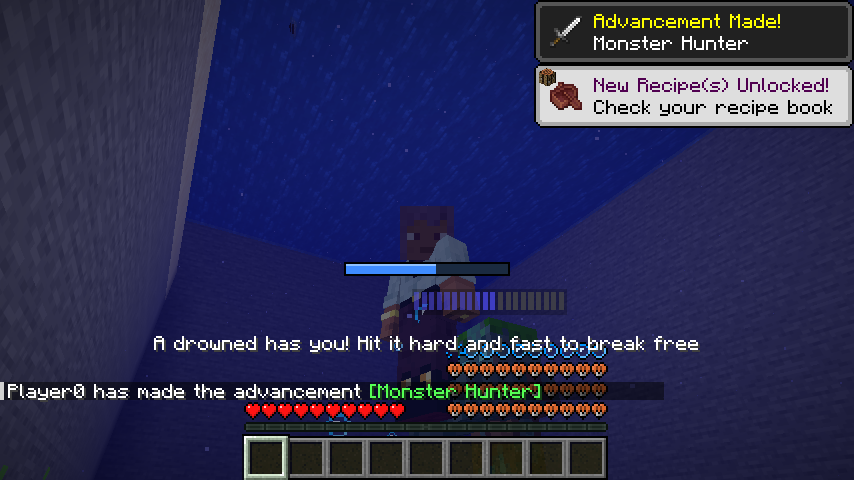
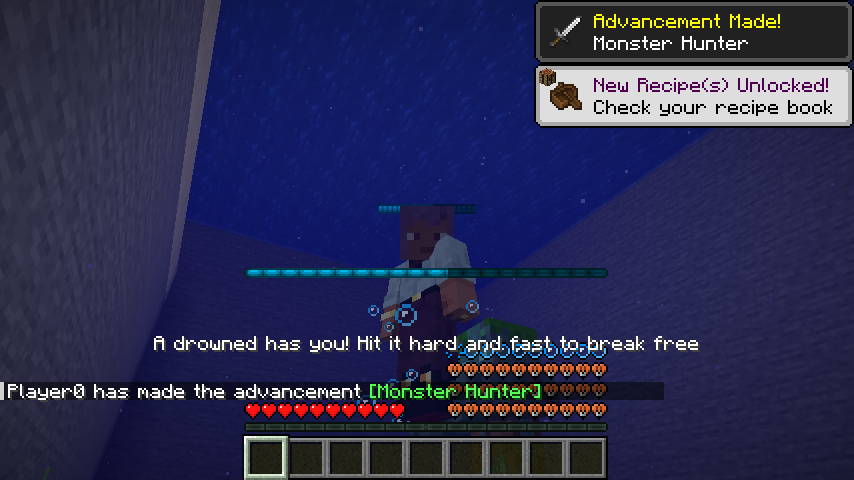
Reworked Mobs: meters drawn as vanilla notched bars (boss-bar blue/red sprites with 20 notches) on the HUD and as camera-facing bars over mobs, a held victim's bar over their head; fix the flaky lurk-spot test (pool side walls are valid shores) (C1)

diff --git a/mods/bubbas_reworked_mobs/src/client/java/io/github/bubba8587/bubbas_reworked_mobs/client/meter/MeterBars.java b/mods/bubbas_reworked_mobs/src/client/java/io/github/bubba8587/bubbas_reworked_mobs/client/meter/MeterBars.java
@@ -1,18 +1,23 @@
 // dte:C1,B19
 package io.github.bubba8587.bubbas_reworked_mobs.client.meter;
 
+import com.mojang.blaze3d.vertex.PoseStack;
+import com.mojang.blaze3d.vertex.VertexConsumer;
 import io.github.bubba8587.bubbas_reworked_mobs.BubbasReworkedMobs;
 import io.github.bubba8587.bubbas_reworked_mobs.meter.Meters;
 import it.unimi.dsi.fastutil.ints.Int2IntOpenHashMap;
-import net.minecraft.ChatFormatting;
 import net.minecraft.client.DeltaTracker;
 import net.minecraft.client.Minecraft;
 import net.minecraft.client.gui.GuiGraphicsExtractor;
-import net.minecraft.network.chat.Component;
-import net.minecraft.network.chat.MutableComponent;
+import net.minecraft.client.renderer.RenderPipelines;
+import net.minecraft.client.renderer.SubmitNodeCollector;
+import net.minecraft.client.renderer.entity.state.EntityRenderState;
+import net.minecraft.client.renderer.rendertype.RenderType;
+import net.minecraft.client.renderer.rendertype.RenderTypes;
+import net.minecraft.client.renderer.state.level.CameraRenderState;
+import net.minecraft.resources.Identifier;
 import net.minecraft.world.entity.Entity;
 import net.minecraft.world.entity.monster.zombie.Drowned;
-import org.jspecify.annotations.Nullable;
 
 import net.fabricmc.fabric.api.client.networking.v1.ClientPlayConnectionEvents;
 import net.fabricmc.fabric.api.client.networking.v1.ClientPlayNetworking;
@@ -20,21 +25,40 @@ import net.fabricmc.fabric.api.client.rendering.v1.hud.HudElementRegistry;
 import net.fabricmc.fabric.api.client.rendering.v1.hud.VanillaHudElements;
 
 /**
- * Draws the visible meters ({@link Meters}, game rule {@code show_meters}): a bar of 20 marks under the mob's name-tag
- * spot (blue grip on a drowned, red startle on a creeper, filled marks coloured, the rest dark grey), and on the
- * screen of a player a drowned holds, a blue bar under the crosshair (filled rectangles, vanilla-style: black edge,
- * dark well). The values come from the server; nothing is computed here.
+ * Draws the visible meters ({@link Meters}, game rule {@code show_meters}) in vanilla's own bar style: the boss bar's
+ * blue (drowned grip) and red (creeper startle) sprites with the 20-notch overlay, the same 182 x 5 notched bar as the
+ * experience bar, no new textures. On the screen of a player a drowned holds, the bar sits under the crosshair; in the
+ * world it floats over the mob as a small camera-facing bar, over the victim's head when a drowned holds someone. The
+ * values come from the server; nothing is computed here.
  */
 public final class MeterBars {
 	/** Entity id to (kind << 8 | value). */
 	private static final Int2IntOpenHashMap METERS = new Int2IntOpenHashMap();
-	private static final int MARKS = 20;
-	/** Bars above heads show this close (blocks). */
+	/** Bars over mobs show this close (blocks). */
 	public static final double SHOW_DISTANCE = 32.0;
-	private static final int HUD_WIDTH = 81;
-	private static final int HUD_HEIGHT = 5;
-	private static final int BLUE = 0xFF3F8CFF;
-	private static final int BLUE_DARK = 0xFF1A2A40;
+	private static final int WIDTH = 182;
+	private static final int HEIGHT = 5;
+	/** World bar size (blocks): about a block wide, a little thicker than the sprite's proportions so it reads. */
+	private static final float WORLD_WIDTH = 1.0F;
+	private static final float WORLD_HEIGHT = 0.1F;
+	/** Gap above the head (blocks). */
+	private static final float ABOVE_HEAD = 0.35F;
+	private static final int FULL_BRIGHT = 15728880;
+
+	private static final Identifier[] BACKGROUND = {Identifier.withDefaultNamespace("boss_bar/blue_background"), Identifier.withDefaultNamespace("boss_bar/red_background")};
+	private static final Identifier[] PROGRESS = {Identifier.withDefaultNamespace("boss_bar/blue_progress"), Identifier.withDefaultNamespace("boss_bar/red_progress")};
+	private static final Identifier NOTCHES_BACKGROUND = Identifier.withDefaultNamespace("boss_bar/notched_20_background");
+	private static final Identifier NOTCHES_PROGRESS = Identifier.withDefaultNamespace("boss_bar/notched_20_progress");
+
+	/** The same sprites as plain textures for the world bars (each sprite's file is a loadable texture). */
+	private static RenderType texture(Identifier sprite) {
+		return RenderTypes.text(sprite.withPath(path -> "textures/gui/sprites/" + path + ".png"));
+	}
+
+	private static final RenderType[] WORLD_BACKGROUND = {texture(BACKGROUND[0]), texture(BACKGROUND[1])};
+	private static final RenderType[] WORLD_PROGRESS = {texture(PROGRESS[0]), texture(PROGRESS[1])};
+	private static final RenderType WORLD_NOTCHES_BACKGROUND = texture(NOTCHES_BACKGROUND);
+	private static final RenderType WORLD_NOTCHES_PROGRESS = texture(NOTCHES_PROGRESS);
 
 	private MeterBars() {
 	}
@@ -57,39 +81,86 @@ public final class MeterBars {
 		return METERS.getOrDefault(entity.getId(), 0) & 0xFF;
 	}
 
-	/** The bar to draw above this entity, or null. */
-	public static @Nullable Component bar(Entity entity) {
-		int packed = METERS.getOrDefault(entity.getId(), 0);
-		int value = packed & 0xFF;
-		if (value == 0) {
-			return null;
-		}
-		ChatFormatting colour = (packed >> 8) == Meters.STARTLE ? ChatFormatting.RED : ChatFormatting.BLUE;
-		int filled = Math.max(1, Math.round(value / 100.0F * MARKS));
-		MutableComponent bar = Component.literal("|".repeat(filled)).withStyle(colour, ChatFormatting.BOLD);
-		if (filled < MARKS) {
-			bar.append(Component.literal("|".repeat(MARKS - filled)).withStyle(ChatFormatting.DARK_GRAY, ChatFormatting.BOLD));
-		}
-		return bar;
+	private static int kindIndex(int packed) {
+		return (packed >> 8) == Meters.STARTLE ? 1 : 0;
 	}
 
-	/** The held player's grip bar, under the crosshair. */
+	/** Render-state extract: which bar, and where (over the head, or over a held victim's head). */
+	public static void extract(Entity entity, EntityRenderState state, float partialTicks) {
+		MeterState meter = (MeterState) state;
+		int packed = METERS.getOrDefault(entity.getId(), 0);
+		if ((packed & 0xFF) == 0 || state.distanceToCameraSq > SHOW_DISTANCE * SHOW_DISTANCE) {
+			meter.brm$setMeter(0, 0.0F, 0.0F, 0.0F);
+			return;
+		}
+		float x = 0.0F;
+		float y = entity.getBbHeight() + ABOVE_HEAD;
+		float z = 0.0F;
+		for (Entity passenger : entity.getPassengers()) {
+			// Over the held victim's head, not across their body.
+			x = (float) (passenger.getX(partialTicks) - entity.getX(partialTicks));
+			z = (float) (passenger.getZ(partialTicks) - entity.getZ(partialTicks));
+			y = Math.max(y, (float) (passenger.getY(partialTicks) - entity.getY(partialTicks)) + passenger.getBbHeight() + ABOVE_HEAD);
+		}
+		meter.brm$setMeter(packed, x, y, z);
+	}
+
+	/** The world bar: camera-facing, background and notches, then the filled part. */
+	public static void submit(MeterState meter, PoseStack poseStack, SubmitNodeCollector collector, CameraRenderState camera) {
+		int packed = meter.brm$meter();
+		int kind = kindIndex(packed);
+		float fill = (packed & 0xFF) / 100.0F;
+		poseStack.pushPose();
+		poseStack.translate(meter.brm$barX(), meter.brm$barY(), meter.brm$barZ());
+		poseStack.rotate(camera.orientation);
+		// Name-tag space: x right, y down; one unit is one sprite pixel.
+		poseStack.scale(WORLD_WIDTH / WIDTH, -WORLD_HEIGHT / HEIGHT, WORLD_WIDTH / WIDTH);
+		float x0 = -WIDTH / 2.0F;
+		float y0 = -HEIGHT / 2.0F;
+		quad(collector, poseStack, WORLD_BACKGROUND[kind], x0, y0, WIDTH, 1.0F, 0.0F);
+		quad(collector, poseStack, WORLD_NOTCHES_BACKGROUND, x0, y0, WIDTH, 1.0F, 0.5F);
+		quad(collector, poseStack, WORLD_PROGRESS[kind], x0, y0, WIDTH * fill, fill, 1.0F);
+		quad(collector, poseStack, WORLD_NOTCHES_PROGRESS, x0, y0, WIDTH * fill, fill, 1.5F);
+		poseStack.popPose();
+	}
+
+	/** One layer, {@code width} pixels wide showing the left {@code u1} of the sprite, {@code z} units toward the camera (positive is toward it in this space). */
+	private static void quad(SubmitNodeCollector collector, PoseStack poseStack, RenderType type, float x0, float y0, float width, float u1, float z) {
+		if (width <= 0.0F) {
+			return;
+		}
+		collector.submitCustomGeometry(poseStack, type, (pose, buffer) -> {
+			vertex(buffer, pose, x0, y0 + HEIGHT, z, 0.0F, 1.0F);
+			vertex(buffer, pose, x0 + width, y0 + HEIGHT, z, u1, 1.0F);
+			vertex(buffer, pose, x0 + width, y0, z, u1, 0.0F);
+			vertex(buffer, pose, x0, y0, z, 0.0F, 0.0F);
+		});
+	}
+
+	private static void vertex(VertexConsumer buffer, PoseStack.Pose pose, float x, float y, float z, float u, float v) {
+		buffer.addVertex(pose, x, y, z).setColor(-1).setUv(u, v).setLight(FULL_BRIGHT);
+	}
+
+	/** The held player's grip bar, under the crosshair: a boss bar in blue, notched. */
 	private static void extractHud(GuiGraphicsExtractor graphics, DeltaTracker deltaTracker) {
 		Minecraft mc = Minecraft.getInstance();
 		if (mc.player == null || !(mc.player.getVehicle() instanceof Drowned drowned)) {
 			return;
 		}
-		int value = value(drowned);
+		int packed = METERS.getOrDefault(drowned.getId(), 0);
+		int value = packed & 0xFF;
 		if (value == 0) {
 			return;
 		}
-		int x0 = (graphics.guiWidth() - HUD_WIDTH) / 2;
-		int y0 = graphics.guiHeight() / 2 + 12;
-		graphics.fill(x0 - 1, y0 - 1, x0 + HUD_WIDTH + 1, y0 + HUD_HEIGHT + 1, 0xFF000000);
-		graphics.fill(x0, y0, x0 + HUD_WIDTH, y0 + HUD_HEIGHT, BLUE_DARK);
-		int filled = Math.round(value / 100.0F * HUD_WIDTH);
-		graphics.fill(x0, y0, x0 + filled, y0 + HUD_HEIGHT, BLUE);
-		// A lighter top line, like vanilla's bars.
-		graphics.fill(x0, y0, x0 + filled, y0 + 1, 0xFF8FC0FF);
+		int kind = kindIndex(packed);
+		int x = (graphics.guiWidth() - WIDTH) / 2;
+		int y = graphics.guiHeight() / 2 + 14;
+		int filled = Math.round(value / 100.0F * WIDTH);
+		graphics.blitSprite(RenderPipelines.GUI_TEXTURED, BACKGROUND[kind], WIDTH, HEIGHT, 0, 0, x, y, WIDTH, HEIGHT);
+		graphics.blitSprite(RenderPipelines.GUI_TEXTURED, NOTCHES_BACKGROUND, WIDTH, HEIGHT, 0, 0, x, y, WIDTH, HEIGHT);
+		if (filled > 0) {
+			graphics.blitSprite(RenderPipelines.GUI_TEXTURED, PROGRESS[kind], WIDTH, HEIGHT, 0, 0, x, y, filled, HEIGHT);
+			graphics.blitSprite(RenderPipelines.GUI_TEXTURED, NOTCHES_PROGRESS, WIDTH, HEIGHT, 0, 0, x, y, filled, HEIGHT);
+		}
 	}
 }

diff --git a/mods/bubbas_reworked_mobs/src/client/java/io/github/bubba8587/bubbas_reworked_mobs/client/mixin/MeterBarMixin.java b/mods/bubbas_reworked_mobs/src/client/java/io/github/bubba8587/bubbas_reworked_mobs/client/mixin/MeterBarMixin.java
@@ -1,29 +1,34 @@
 // dte:C1
 package io.github.bubba8587.bubbas_reworked_mobs.client.mixin;
 
+import com.mojang.blaze3d.vertex.PoseStack;
 import io.github.bubba8587.bubbas_reworked_mobs.client.meter.MeterBars;
+import io.github.bubba8587.bubbas_reworked_mobs.client.meter.MeterState;
+import net.minecraft.client.renderer.SubmitNodeCollector;
 import net.minecraft.client.renderer.entity.EntityRenderer;
 import net.minecraft.client.renderer.entity.state.EntityRenderState;
-import net.minecraft.network.chat.Component;
+import net.minecraft.client.renderer.state.level.CameraRenderState;
 import net.minecraft.world.entity.Entity;
-import net.minecraft.world.entity.EntityAttachment;
 import org.spongepowered.asm.mixin.Mixin;
 import org.spongepowered.asm.mixin.injection.At;
 import org.spongepowered.asm.mixin.injection.Inject;
 import org.spongepowered.asm.mixin.injection.callback.CallbackInfo;
 
-/** A mob with a visible meter (game rule show_meters) gets its bar in the below-name line, where vanilla draws scoreboard text. */
+/**
+ * A mob with a visible meter (game rule show_meters) gets a small boss-bar-style bar floating over it: over its head,
+ * or, for a drowned holding someone, over the victim's head (so it doesn't draw across their body).
+ */
 @Mixin(EntityRenderer.class)
 abstract class MeterBarMixin {
 	@Inject(method = "extractRenderState(Lnet/minecraft/world/entity/Entity;Lnet/minecraft/client/renderer/entity/state/EntityRenderState;F)V", at = @At("TAIL"))
 	private void brm$meterBar(Entity entity, EntityRenderState state, float partialTicks, CallbackInfo ci) {
-		Component bar = MeterBars.bar(entity);
-		if (bar == null || state.distanceToCameraSq > MeterBars.SHOW_DISTANCE * MeterBars.SHOW_DISTANCE) {
-			return;
-		}
-		state.scoreText = bar;
-		if (state.nameTagAttachment == null || state.nameTag == null) {
-			state.nameTagAttachment = entity.getAttachments().getNullable(EntityAttachment.NAME_TAG, 0, entity.getYRot(partialTicks));
+		MeterBars.extract(entity, state, partialTicks);
+	}
+
+	@Inject(method = "submit", at = @At("TAIL"))
+	private void brm$submitMeterBar(EntityRenderState state, PoseStack poseStack, SubmitNodeCollector submitNodeCollector, CameraRenderState camera, CallbackInfo ci) {
+		if (((MeterState) state).brm$meter() != 0) {
+			MeterBars.submit((MeterState) state, poseStack, submitNodeCollector, camera);
 		}
 	}
 }

diff --git a/mods/bubbas_reworked_mobs/src/gametest/java/io/github/bubba8587/bubbas_reworked_mobs/test/DrownedGameTest.java b/mods/bubbas_reworked_mobs/src/gametest/java/io/github/bubba8587/bubbas_reworked_mobs/test/DrownedGameTest.java
@@ -280,8 +280,18 @@ public class DrownedGameTest {
 			DrownedMind mind = mind(drowned);
 			helper.assertTrue(mind.state() == DrownedMind.State.LURK, "should reach a lurk spot, state " + mind.state());
 			Vec3 rel = helper.relativeVec(drowned.position());
-			helper.assertTrue(rel.x >= 7.0 && rel.x < 10.0, "the lurk spot should be in the shallows by the shore, at " + rel);
-			helper.assertTrue(Math.abs(net.minecraft.util.Mth.wrapDegrees(drowned.getYRot() - 90.0F)) < 50.0F, "it should face the shore (-x), yaw " + drowned.getYRot());
+			// Any 2-deep column within 3 blocks of land is a spot: by the bank (facing -x) or by the pool's side walls,
+			// which are 1-block piers you can stand on (facing +z or -z). Flaky until 2026-11-16: this asserted the bank.
+			helper.assertTrue(rel.x >= 7.0 && rel.x < 12.0, "the lurk spot should be in the shallows, at " + rel);
+			helper.assertTrue(mind.spot() != null && Math.abs(net.minecraft.util.Mth.wrapDegrees(drowned.getYRot() - mind.spot().shoreYaw())) < 30.0F,
+					"it should face its spot's shore, yaw " + drowned.getYRot() + " spot " + mind.spot());
+			float yaw = mind.spot().shoreYaw() * net.minecraft.util.Mth.DEG_TO_RAD;
+			boolean land = false;
+			for (int step = 1; step <= 3 && !land; step++) {
+				BlockPos ahead = BlockPos.containing(drowned.getX() - net.minecraft.util.Mth.sin(yaw) * step, mind.spot().surfaceY() - 0.5, drowned.getZ() + net.minecraft.util.Mth.cos(yaw) * step);
+				land = !helper.getLevel().getBlockState(ahead).getCollisionShape(helper.getLevel(), ahead).isEmpty();
+			}
+			helper.assertTrue(land, "land (the bank or a wall's top) should be within 3 blocks ahead of it, yaw " + drowned.getYRot());
 			drowned.discard();
 			CreeperGameTest.remove(helper, player);
 		});

diff --git a/mods/bubbas_reworked_mobs/src/client/java/io/github/bubba8587/bubbas_reworked_mobs/client/mixin/EntityRenderStateMeterMixin.java b/mods/bubbas_reworked_mobs/src/client/java/io/github/bubba8587/bubbas_reworked_mobs/client/mixin/EntityRenderStateMeterMixin.java
@@ -1,0 +1,48 @@
+// dte:C1
+package io.github.bubba8587.bubbas_reworked_mobs.client.mixin;
+
+import io.github.bubba8587.bubbas_reworked_mobs.client.meter.MeterState;
+import net.minecraft.client.renderer.entity.state.EntityRenderState;
+import org.spongepowered.asm.mixin.Mixin;
+import org.spongepowered.asm.mixin.Unique;
+
+/** Carries a mob's visible meter from extract to submit (show_meters). */
+@Mixin(EntityRenderState.class)
+abstract class EntityRenderStateMeterMixin implements MeterState {
+	@Unique
+	private int brm$meter;
+	@Unique
+	private float brm$barX;
+	@Unique
+	private float brm$barY;
+	@Unique
+	private float brm$barZ;
+
+	@Override
+	public int brm$meter() {
+		return brm$meter;
+	}
+
+	@Override
+	public float brm$barX() {
+		return brm$barX;
+	}
+
+	@Override
+	public float brm$barY() {
+		return brm$barY;
+	}
+
+	@Override
+	public float brm$barZ() {
+		return brm$barZ;
+	}
+
+	@Override
+	public void brm$setMeter(int packed, float x, float y, float z) {
+		brm$meter = packed;
+		brm$barX = x;
+		brm$barY = y;
+		brm$barZ = z;
+	}
+}

diff --git a/mods/bubbas_reworked_mobs/src/client/java/io/github/bubba8587/bubbas_reworked_mobs/client/meter/MeterState.java b/mods/bubbas_reworked_mobs/src/client/java/io/github/bubba8587/bubbas_reworked_mobs/client/meter/MeterState.java
@@ -1,0 +1,17 @@
+// dte:C1
+package io.github.bubba8587.bubbas_reworked_mobs.client.meter;
+
+/** Added to every EntityRenderState ({@code EntityRenderStateMeterMixin}): the visible meter to draw over it this frame. */
+public interface MeterState {
+	/** Packed kind << 8 | value (1-100), or 0 for none. */
+	int brm$meter();
+
+	/** Where the bar goes, relative to the entity's render position (blocks). */
+	float brm$barX();
+
+	float brm$barY();
+
+	float brm$barZ();
+
+	void brm$setMeter(int packed, float x, float y, float z);
+}

diff --git a/docs/reports/drowned-meters-2026-11-16.md b/docs/reports/drowned-meters-2026-11-16.md
@@ -1,0 +1,33 @@
+<!-- dte:C1 -->
+# Docs addendum: vanilla-style meter bars, lurk test fix (2026-11-16)
+
+Builder's addendum to `specs/drowned.md` (Visible meters) and `specs/creepers.md`.
+
+## Meter bars look like vanilla's notched bars (owner)
+
+- **Sprites:** vanilla's own boss-bar sprites, no new textures, no `docs/art-todo.md` rows. Each bar is `boss_bar/blue_*` (drowned grip) or `boss_bar/red_*` (creeper startle), with `boss_bar/notched_20_*` on top: the same 182 x 5 notched bar as the experience bar, in vanilla's own blue and red, so no tinting was needed. I picked these over tinting the green XP sprite because the boss-bar colours are vanilla's own and read cleaner. The layers are background, notches, then the filled part with its notches, cropped to the value.
+- **HUD** (the held player): the bar sits under the crosshair at vanilla's GUI scale (182 x 5), drawn with `blitSprite` the way `BossHealthOverlay` draws it.
+- **In the world:**
+  - A camera-facing textured quad, 1 block wide and 0.1 tall, full-bright.
+  - It uses the same sprite files as plain textures (`textures/gui/sprites/boss_bar/*.png`) through `RenderTypes.text`, submitted from `EntityRenderer.submit`.
+  - Mobs carry the bar from extract to submit in `EntityRenderStateMeterMixin`.
+  - Shown within 32 blocks.
+- **Fixed overlap:** a drowned holding someone draws its bar over the victim's head (0.35 above the highest passenger), not across their body. Other mobs get theirs 0.35 above their own head.
+- The old text bar (bold "|" marks in the scoreboard line) is gone, so the scoreboard below-name line is no longer used.
+
+## `swimsToALurkSpotNearThePlayer` flake: cause and fix
+
+- **Cause:** the test assumed the drowned always picks a spot by the bank (facing -x). But the test pool's side walls are 1-block stone piers level with the surface. A 2-deep column next to one is a valid lurk spot by the rules: land you can stand on within 3 blocks. The search samples random columns, so now and then it picked one by a side wall, at x 10-11 facing -z ("yaw -180") or out past x 10. That's correct behaviour (a pier is a shore), so I fixed the test, not the behaviour.
+- **Fix:** the test now accepts any 2-deep column in the shallows (x 7-12). It checks that the drowned faces its own spot's shore (within 30 degrees) and that there's solid ground at surface level within 3 blocks in that direction.
+- **Runs after the fix:**
+  - 4 full `-PmilestoneTests -PrerunGametests` runs. Every drowned test passed every run.
+  - 2 runs each had one failure, in `GrabLootGameTest.idleSkeletonTakesADisplayedSword` and `UndeadCombatGameTest.idleZombiesDriftTogether`. Both are already listed as flaky in BACKLOG.md and don't involve drowned.
+  - BACKLOG.md can drop the drowned entry from its flaky list.
+
+## Screenshots
+
+Updated in `docs/previews/drowned/` and checked by eye:
+- `drowned-grab-meter.png`: a half-full blue notched bar over the grabbed villager's head.
+- `drowned-two-holders.png`: a full blue bar over the villager, with two drowned holding.
+- `creeper-startle-bar.png`: a red notched bar over the creeper.
+- `drowned-held-player-hud.png`: the blue boss-bar-style bar under the crosshair, plus the world bar over the player's head.
